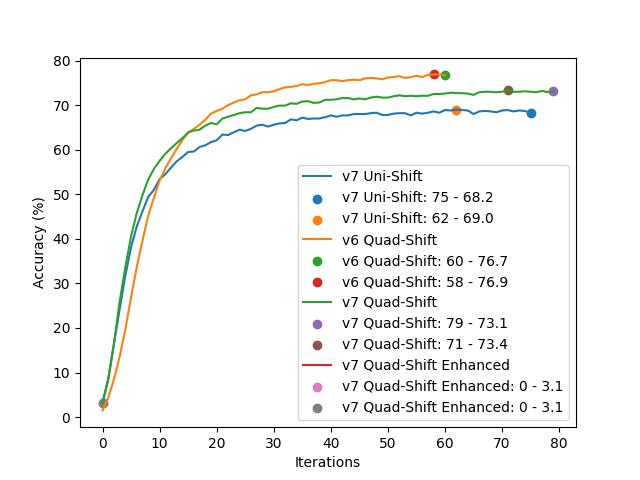
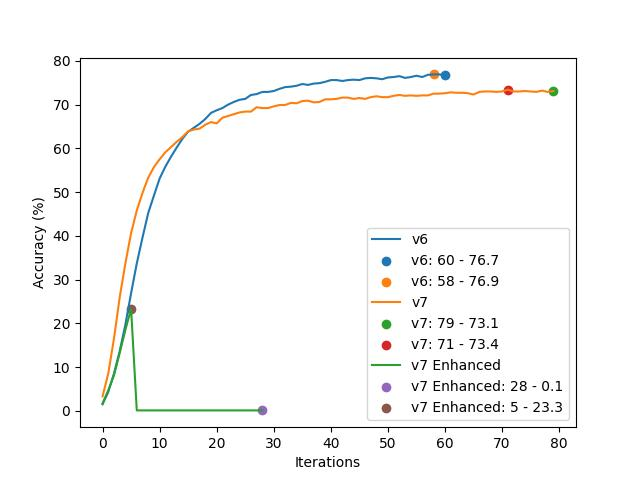
NaN occurs

diff --git a/classification/models/vrwkv7.py b/classification/models/vrwkv7.py
@@ -787,10 +787,10 @@ class VRWKV7(BaseBackbone):
         x0 = x
 
         for i, layer in enumerate(self.layers):
-            # if isinstance(layer, RWKV7Block):
-            #     x, v1 = layer(x, v1, x0, patch_resolution)
-            # else:
-            x = layer(x, patch_resolution)
+            if use_classic_rwkv7:
+                x, v1 = layer(x, v1, x0, patch_resolution)
+            else:
+                x = layer(x, patch_resolution)
             if i == len(self.layers) - 1 and self.final_norm:
                 x = self.ln1(x)
 
